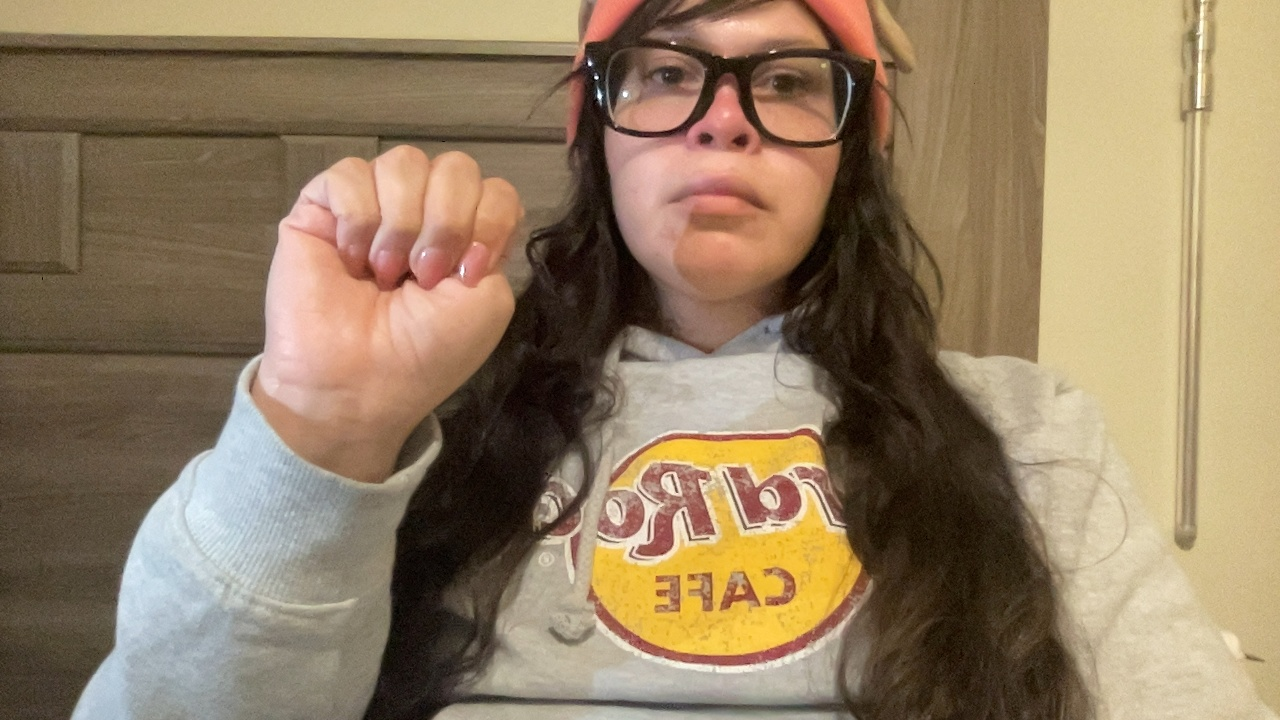
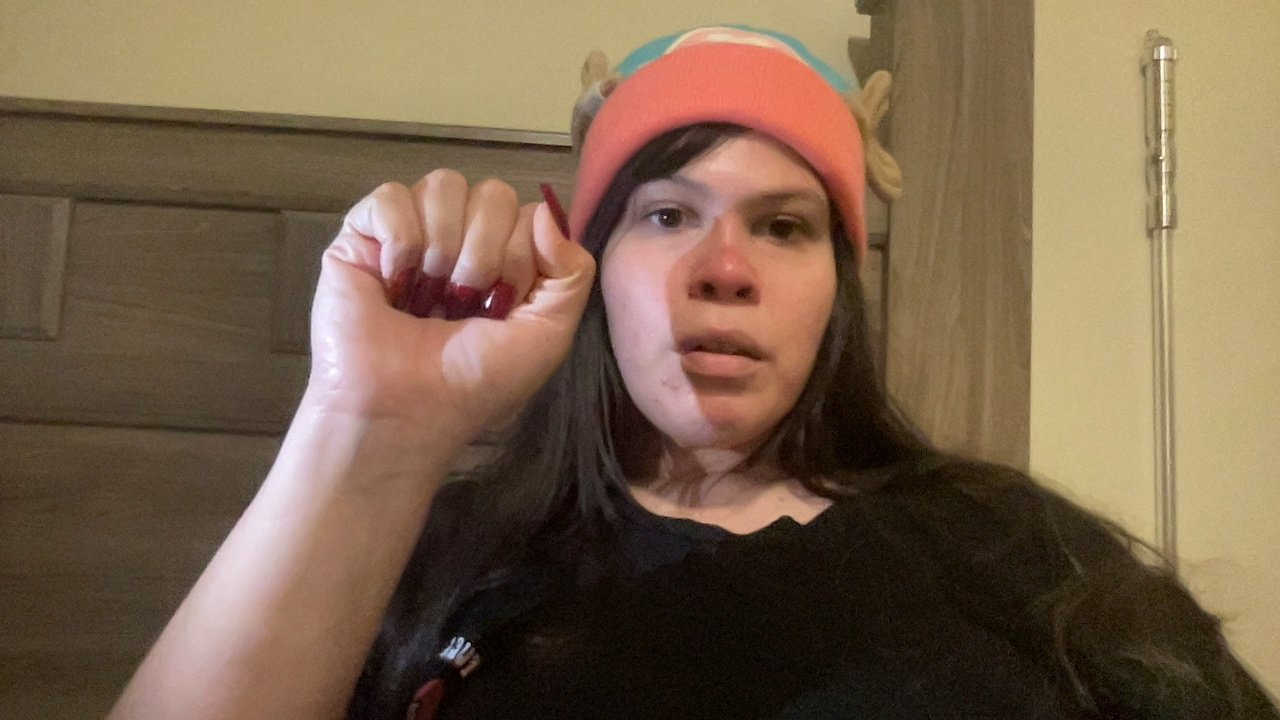
Additional fist gestures captured to expand dataset (#10)

diff --git a/scripts/collect_hand_gestures.py b/scripts/collect_hand_gestures.py
@@ -2,7 +2,7 @@ import cv2
 import os
 
 # Debugged issue with path identification, the images should now save in the correct folders.
-gesture_name = "thumbs_up"
+gesture_name = "fist"
 save_path = f"/Users/damarisgarcia/Desktop/computer_vision_hand_gesture_project/dataset/{gesture_name}"
 os.makedirs(save_path, exist_ok=True)
 
